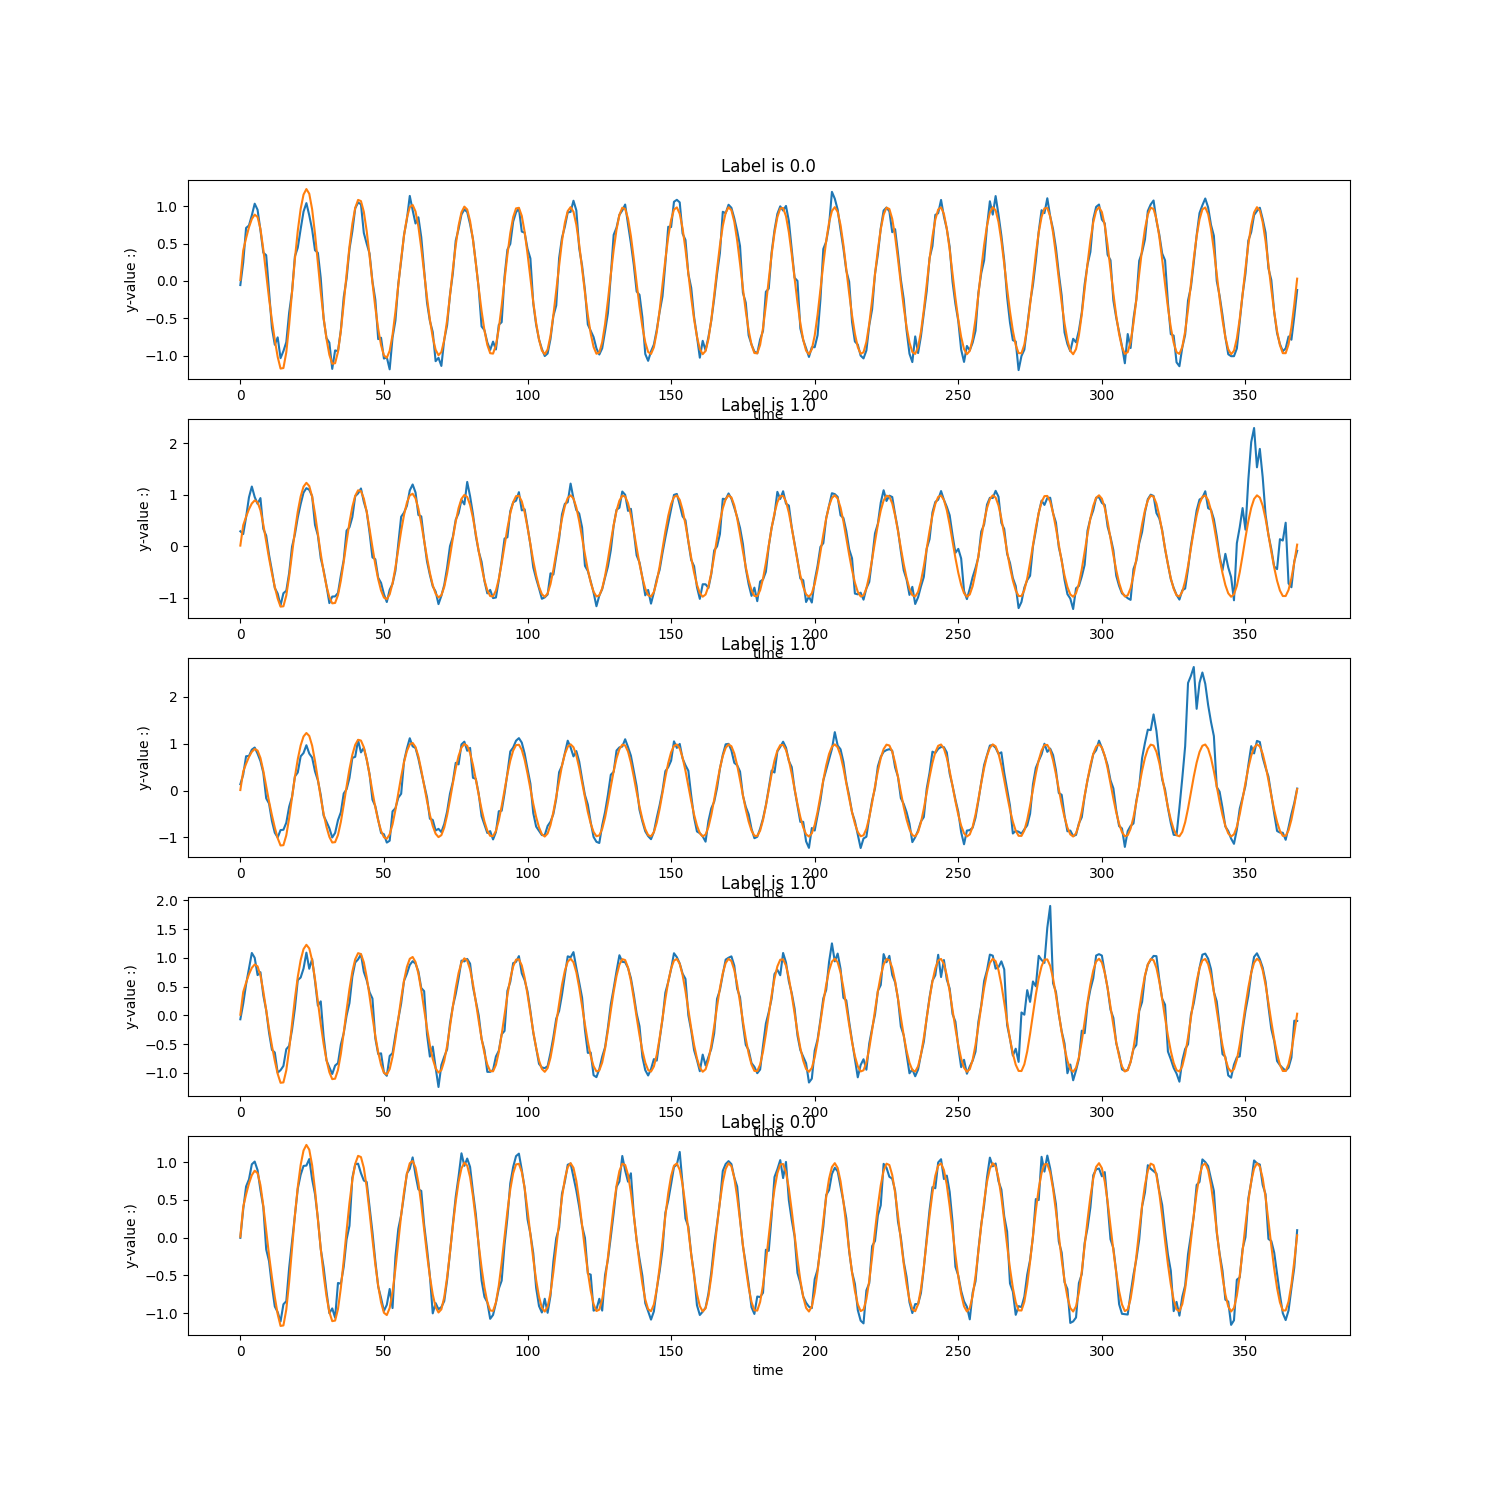
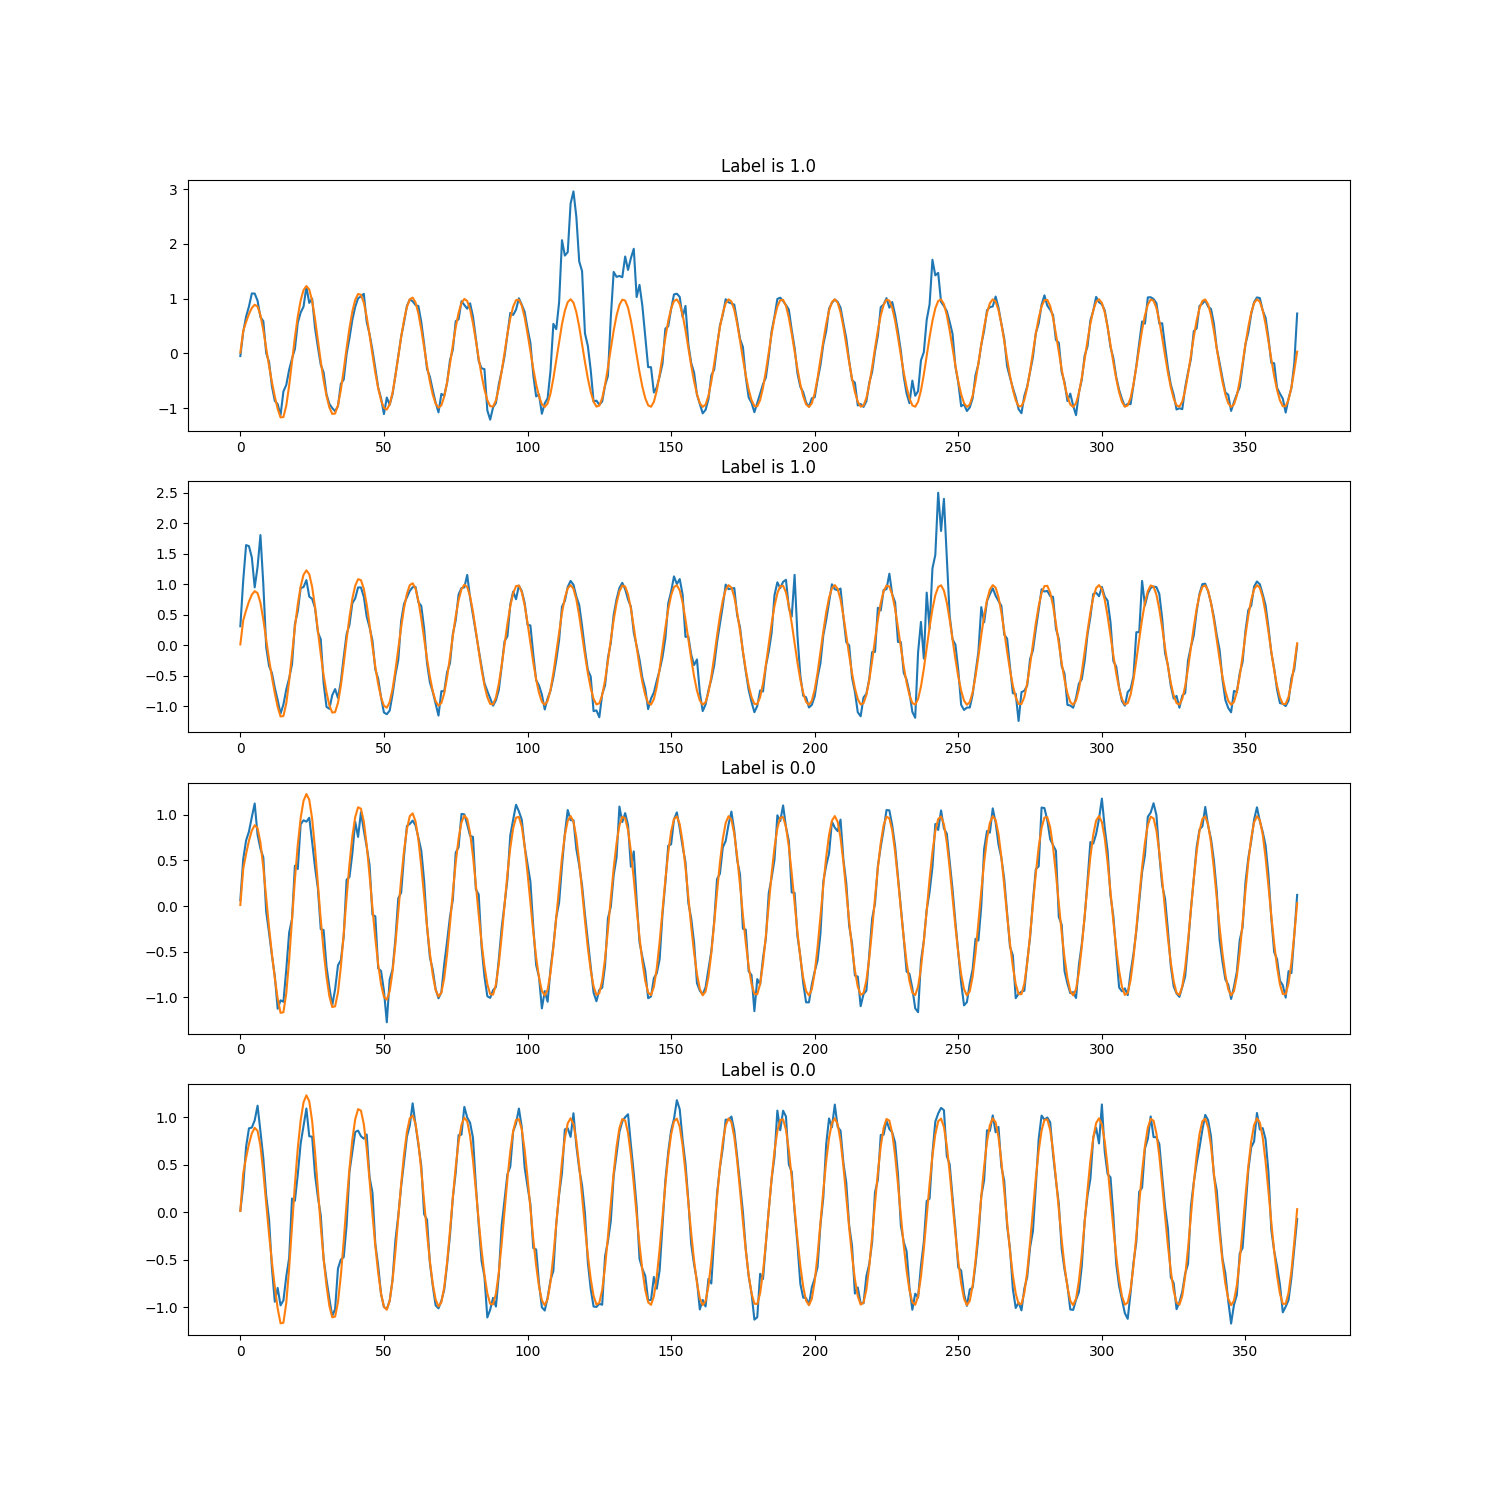
Make test_data shuffled

diff --git a/main.py b/main.py
@@ -16,7 +16,6 @@ train = TS_dataset(timesteps=seq_len,columns=columns,type='train')
 val = TS_dataset(timesteps=seq_len,columns=columns,type='val')
 test = TS_dataset(timesteps=seq_len,columns=columns,type='test')
 n_features= len(columns)
-
 hyperparameter_defaults = dict(
         hidden_size = 115, 
         hidden_layer_depth = 2,
@@ -46,7 +45,7 @@ args = DotMap(dict(
     results_file = 'result.txt',
     output_dir = 'results',
     visualize=True,
-    train = True,
+    train = False,
     detectOutliers = False,
     prior='vampprior'
 ))
@@ -91,8 +90,8 @@ if args.visualize:
     x_decoded = vrae.reconstruct(test)
 
     with torch.no_grad():  
-        n_plots = 5
-        x,label = val[0:n_plots+10]
+        n_plots = 4
+        x,label = val[0:n_plots]
         fig, axs = plt.subplots(n_plots, figsize = (15,15))
         for i in range(n_plots):
             axs[i].plot(x[i,:,0], label = 'Input data')
@@ -101,6 +100,6 @@ if args.visualize:
 
 
         for ax in axs.flat:
-            ax.set(xlabel='time', ylabel='y-value :)')
+            ax.set(xlabel='', ylabel='')
         wandb.log({f"Reconstructions":fig})
         fig.savefig('generated_samples.png')

diff --git a/vrae/dataset.py b/vrae/dataset.py
@@ -34,6 +34,8 @@ class TS_dataset(Dataset):
         indices = sample(range(rest_data.shape[0]),int(rest_data.shape[0]*0.5))
         val_data, val_label = rest_data[indices,:,:], rest_label[indices]
         test_data, test_label = np.delete(rest_data,indices,axis=0), np.delete(rest_label,indices)
+        idx = numpy.random.permutation(len(test_label))
+        test_data, test_label = test_data[idx,:,:], test_label[idx]
 
         if type=='train':
             self.all_data = train_data
